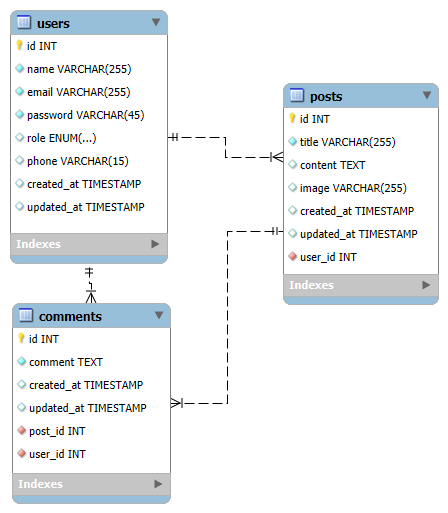
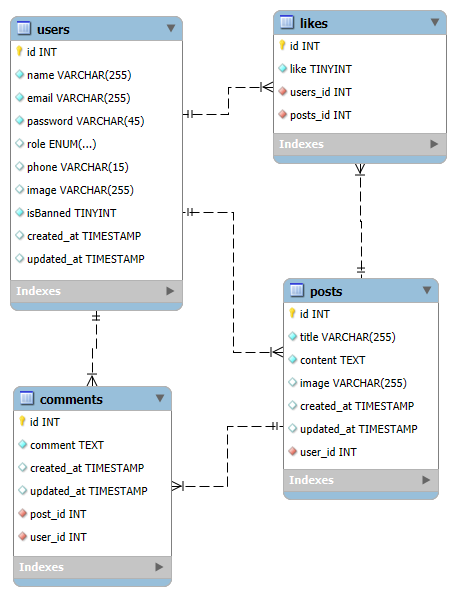
add likes

diff --git a/classes.php b/classes.php
@@ -89,8 +89,62 @@
         mysqli_close($cn);
         return $data;
       }
+      public static function store_like($post_id,$user_id){
+        $qry="INSERT INTO LIKES (post_id,user_id) VALUES ($post_id,$user_id)";
+        require_once("config.php");
+        $cn=mysqli_connect(DB_HOST_NAME,DB_USER_NAME,DB_USER_PASSWORD,DB_NAME);
+        $result=mysqli_query($cn,$qry);
+        mysqli_close($cn);
+        return $result;
+
+      }
+      public static function delete_like($post_id,$user_id){
+        $qry="DELETE FROM LIKES WHERE post_id=$post_id AND user_id=$user_id";
+        require_once("config.php");
+        $cn=mysqli_connect(DB_HOST_NAME,DB_USER_NAME,DB_USER_PASSWORD,DB_NAME);
+        $result=mysqli_query($cn,$qry);
+        mysqli_close($cn);
+        return $result;
+
+      }
+      public function my_likes($user_id){
+        $qry="SELECT * FROM LIKES WHERE user_id=$user_id";
+        require_once("config.php");
+        $cn=mysqli_connect(DB_HOST_NAME,DB_USER_NAME,DB_USER_PASSWORD,DB_NAME);
+        $result=mysqli_query($cn,$qry);
+        $data=mysqli_fetch_all($result,MYSQLI_ASSOC);
+        mysqli_close($cn);
+        return $data;
+      }
+      public static function post_likes($post_id){
+        $qry="SELECT * FROM LIKES WHERE post_id=$post_id";
+        require_once("config.php");
+        $cn=mysqli_connect(DB_HOST_NAME,DB_USER_NAME,DB_USER_PASSWORD,DB_NAME);
+        $result=mysqli_query($cn,$qry);
+        $data=mysqli_fetch_all($result,MYSQLI_ASSOC);
+        mysqli_close($cn);
+        return $data;
+      }
+      public static function home_like($post_id,$user_id){
+        $qry="SELECT * FROM LIKES WHERE post_id=$post_id AND user_id=$user_id";
+        require_once("config.php");
+        $cn=mysqli_connect(DB_HOST_NAME,DB_USER_NAME,DB_USER_PASSWORD,DB_NAME);
+        $result=mysqli_query($cn,$qry);
+        $data=mysqli_fetch_all($result,MYSQLI_ASSOC);
+        mysqli_close($cn);
+        return $data;
+      }
+      public static function total_likes(){
+        $qry="SELECT * FROM LIKES ";
+        require_once("config.php");
+        $cn=mysqli_connect(DB_HOST_NAME,DB_USER_NAME,DB_USER_PASSWORD,DB_NAME);
+        $result=mysqli_query($cn,$qry);
+        $data=mysqli_fetch_all($result,MYSQLI_ASSOC);
+        mysqli_close($cn);
+        return $data;
+      }
       public static function home_posts(){
-        $qry="SELECT * FROM POSTS JOIN USERS ON POSTS.user_id=USERS.id ORDER BY POSTS.created_at DESC";
+        $qry="SELECT * FROM USERS JOIN POSTS ON POSTS.user_id=USERS.id ORDER BY POSTS.created_at DESC";
         require_once("config.php");
         $cn=mysqli_connect(DB_HOST_NAME,DB_USER_NAME,DB_USER_PASSWORD,DB_NAME);
         $result=mysqli_query($cn,$qry);

diff --git a/frontend/subscribers/home.php b/frontend/subscribers/home.php
@@ -24,7 +24,6 @@ $myPosts=$user->home_posts();
     <div class="row">
     <?php
     foreach($myPosts as $post){
-
     ?>
         <div class="col-6 offset-3 my-3">
           <div class="card">
@@ -46,6 +45,19 @@ $myPosts=$user->home_posts();
             <div class="card-body">
               <h4 class="card-title"><?=$post["title"]?></h4>
               <p class="card-text"><?=$post["content"]?></p>
+              <hr>
+              <div class="d-flex justify-content-between align-items-center">
+                      <form class="d-inline-block" action="handle_like.php" method="post">
+                        <input type="hidden" name="post_id" value="<?=$post["id"]?>">
+                        <input type="hidden" name="user_id" value="<?=$post["user_id"]?>">
+                        <button type="submit" class="btn btn-toggle align-items-center ms-2 "><?= (!empty($user->home_like($post["id"],$user->id)))?"<span style='color:green;'>liked</span>":"<span style='color:blue;'>like</span>" ?> </button>
+                        <?=count(user::post_likes($post["id"]))?>
+                      </form>
+                        <div class="d-flex flex-row muted-color">
+                          <?=count($user->get_post_comments($post["id"]))?>
+                        <span>&nbsp comments</span>
+                      </div><!--####################### -->
+                    </div>
             </div>
             <div class="row d-flex justify-content-center">
   <div class="col">
@@ -67,10 +79,9 @@ $myPosts=$user->home_posts();
         <div class="card mb-4">
           <div class="card-body">
             <p><?=$comment["comment"]?></p>
-
             <div class="d-flex justify-content-between">
               <div class="d-flex flex-row align-items-center">
-                <img src=" <?php echo(!empty($user->image))?$user->image:"http://bootdey.com/img/Content/avatar/avatar1.png" ?>" alt="avatar" width="25"
+                <img src=" <?php echo(!empty($comment["image"]))?$comment["image"]:"http://bootdey.com/img/Content/avatar/avatar1.png" ?>" alt="avatar" width="25"
                   height="25" />
                 <p class="small mb-0 ms-2"><?= $comment["name"]?></p>
               </div>

diff --git a/frontend/subscribers/handle_like.php b/frontend/subscribers/handle_like.php
@@ -1,0 +1,25 @@
+<?php
+  session_start();
+  require_once("../../classes.php");
+  $user=unserialize($_SESSION["user"]);
+  $like=$user->my_likes($user->id);
+    $_SESSION["like"]=$like;
+  if(empty($_SESSION["like"])){
+    $user->store_like($_REQUEST["post_id"],$user->id);
+      }
+      else{
+        $isLiked=0;
+        foreach($_SESSION["like"] as $storedLike){
+          if((($storedLike["user_id"]==$user->id) && ($storedLike["post_id"]==$_REQUEST["post_id"]))){
+            $isLiked=1;
+        $user->delete_like($_REQUEST["post_id"],$user->id);
+      }        
+    }
+    if($isLiked==0){
+        $user->store_like($_REQUEST["post_id"],$user->id);
+      }
+    }
+    $like=$user->my_likes($user->id);
+    $_SESSION["like"]=$like;
+    header("location:home.php");
+    ?>

diff --git a/frontend/admins/home.php b/frontend/admins/home.php
@@ -27,6 +27,8 @@ require_once("header.php");
               <th scope="col">Email</th>
               <th scope="col">Role</th>
               <th scope="col">Phone</th>
+              <th scope="col">posts</th>
+              <th scope="col">likes</th>
               <th scope="col">Action</th>
             </tr>
           </thead>
@@ -40,6 +42,8 @@ require_once("header.php");
               <td><?=$users["email"]?></td>
               <td><?=$users["role"]?></td>
               <td><?=$users["phone"]?></td>
+              <td><?=count($user->my_posts($users["id"]))?></td>
+              <td><?=count($user->my_likes($users["id"]))?></td>
               <?php if($user->id!=$users["id"]){
                 ?>
               
